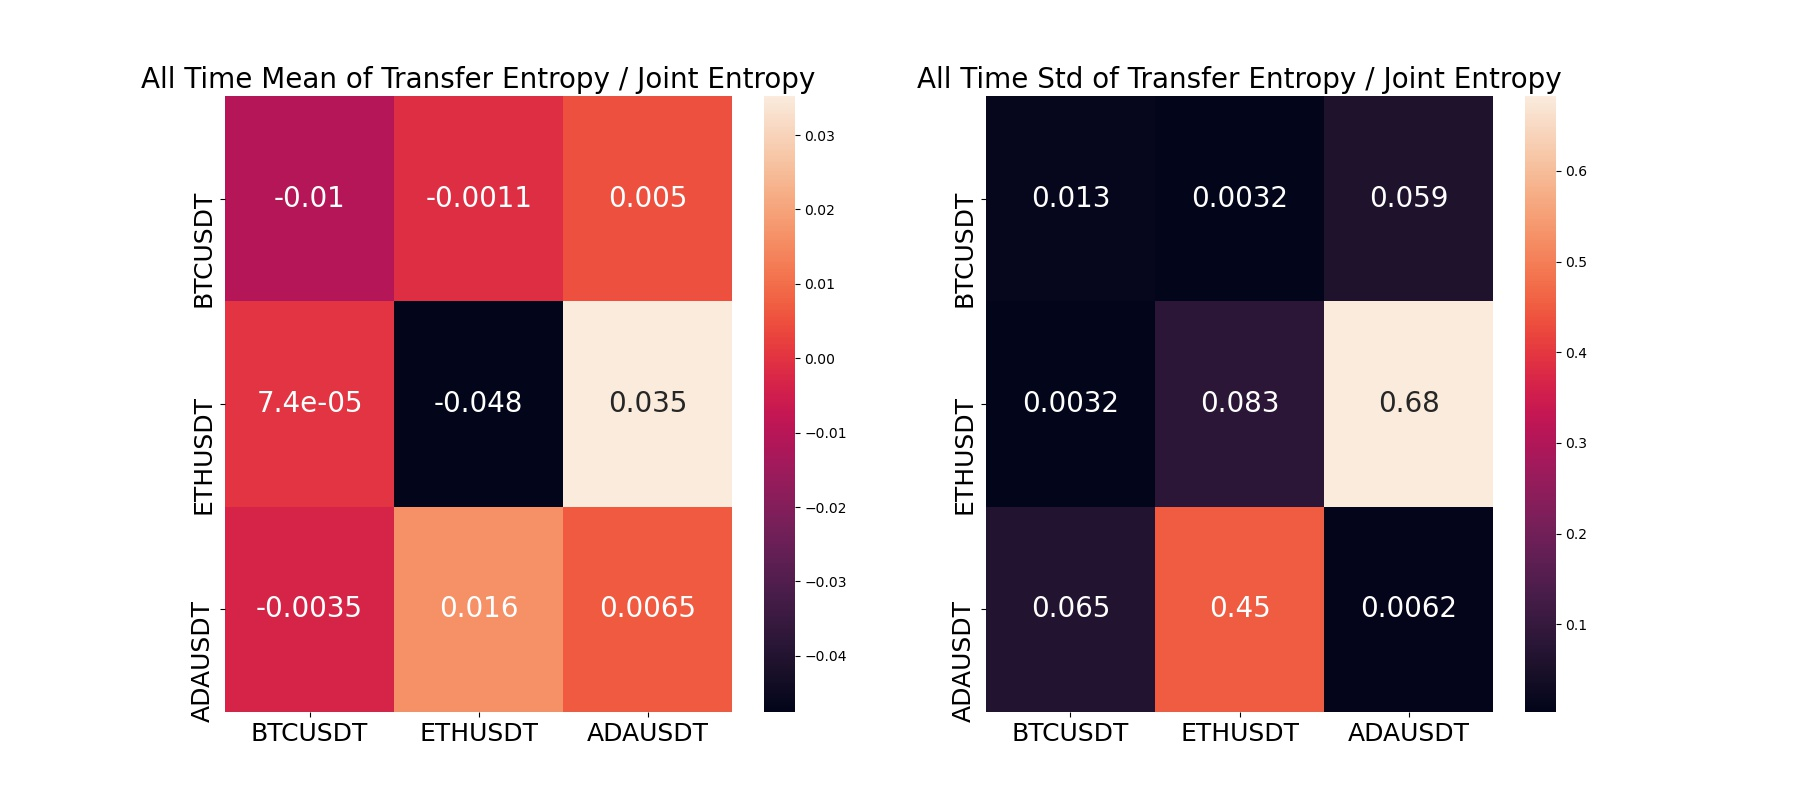
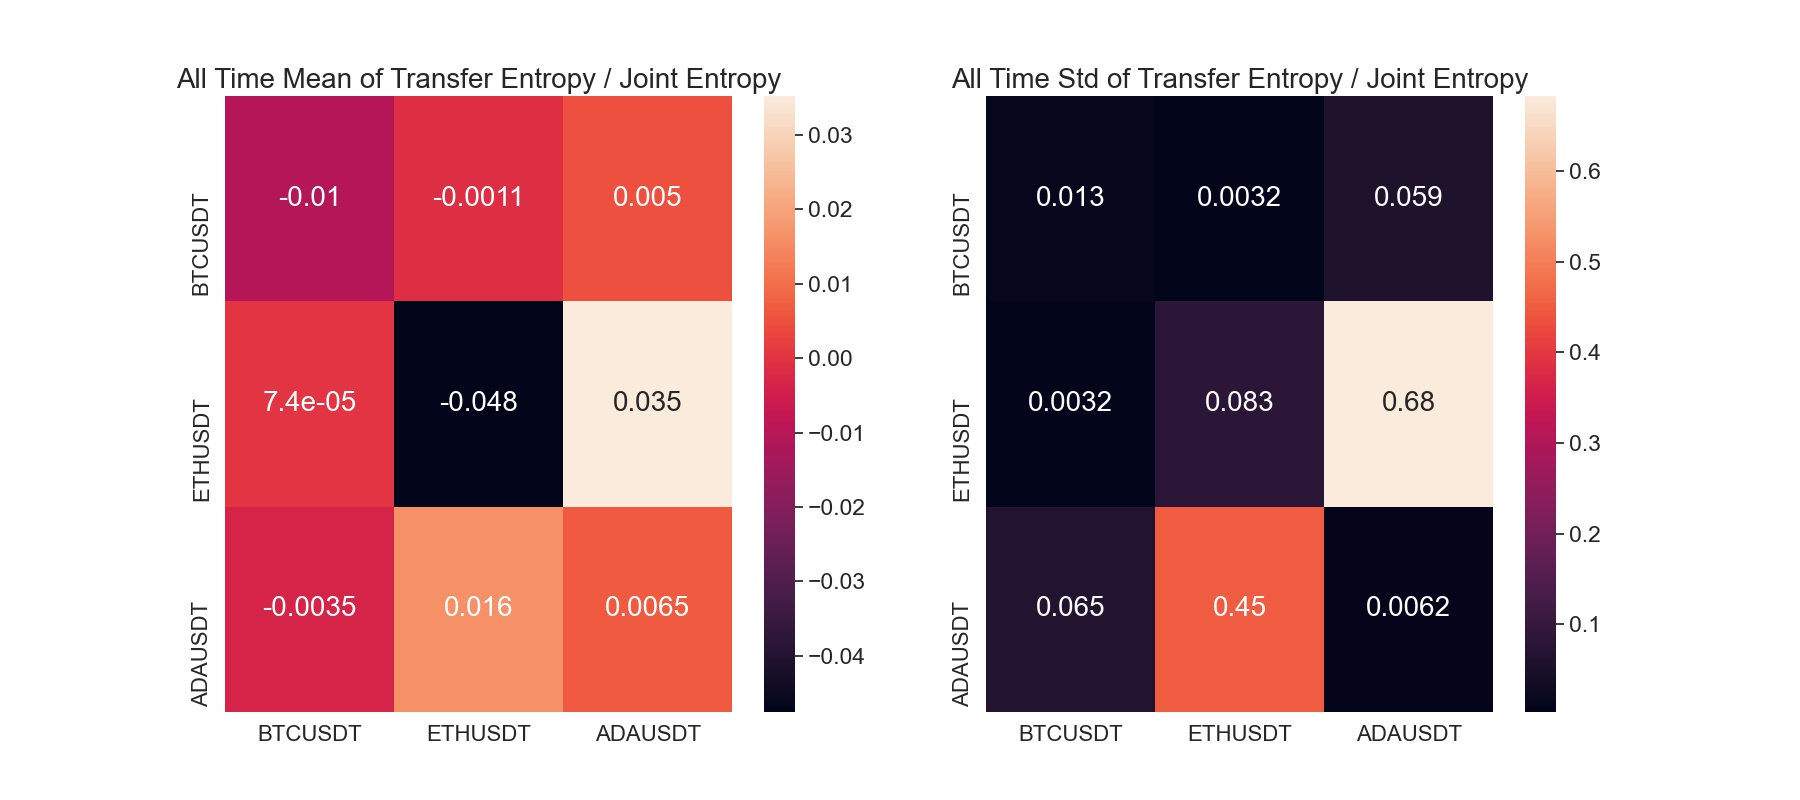
bar font size heatmaps.

diff --git a/results_analysis.py b/results_analysis.py
@@ -136,12 +136,12 @@ class ResultsAnalysis:
         
         mean_df = self.__get_matrix_df(df.mean())
         std_df = self.__get_matrix_df(df.std())
-
+        sns.set(font_scale=1.5)
         _, axes = plt.subplots(ncols=2, nrows=1, figsize=(18,8));
         functions_to_run_dict = {"Mean":mean_df, "Std":std_df}
         for i, (function_to_run, temp_df) in enumerate(functions_to_run_dict.items()):
             title = f"All Time {function_to_run} of {description}" 
-            axes[i].tick_params(axis='both', labelsize=18)
+            axes[i].tick_params(axis='both', labelsize=16)
             sns.heatmap(temp_df, annot=True, ax=axes[i], annot_kws={"fontsize":20}).set_title(title, fontsize = 20);
 
 
